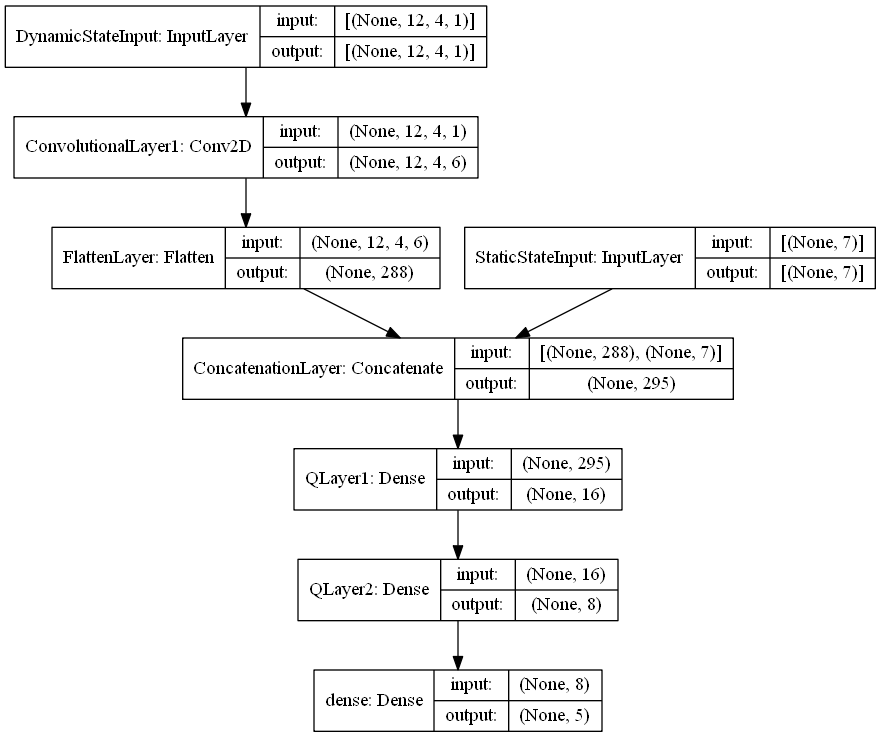
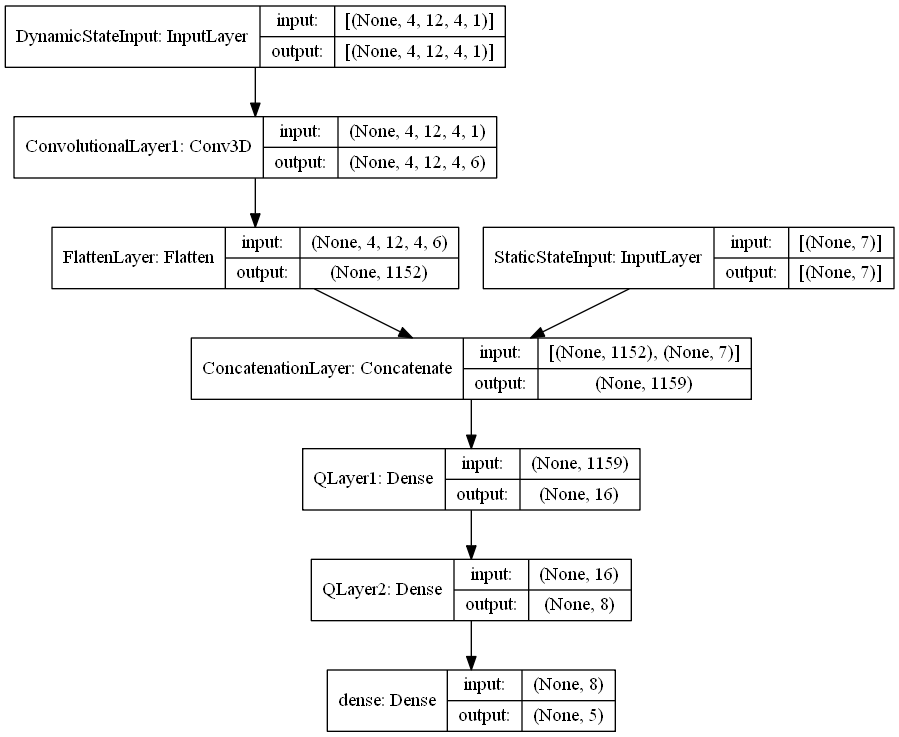
Added frame stacking for CNN and LSTM in policies.py

diff --git a/python/implementation/Policies.py b/python/implementation/Policies.py
@@ -3,6 +3,7 @@ import tensorflow as tf
 import numpy as np
 import random
 from matplotlib import pyplot as plt
+from collections import deque
 
 
 def add_state_noise(state, is_normal=False, is_uniform=False, magnitude=0.0, mu=0.0, sigma=0.0):
@@ -340,6 +341,14 @@ class DiscreteSingleActionPolicy(CustomPolicy):
         self.agent = agent  # agent = f(NN_model)
         self.STEP_TIME = self.agent.training_param["policy_rate"]
         self.rewards = RewardFunction()
+        cnn_config = self.agent.Q_actual_net.model_param['cnn_param']['config']
+        self.stack_cnn_frames = (self.agent.training_param["use_CNN"] and cnn_config == 3)
+        self.stack_LSTM_frames = self.agent.training_param["use_LSTM"]
+        if self.stack_cnn_frames or self.stack_LSTM_frames:
+            self.stack_frames = True
+            self.frame_stack_type = self.agent.training_param["frame_stack_type"]  # 0=stack agent frames , 1=stack simulator frames
+            self.frame_stack_buffer = deque(maxlen=4)
+
 
     def init_vehicle(self, veh):
         # Book-keeping of last states and actions
@@ -384,6 +393,28 @@ class DiscreteSingleActionPolicy(CustomPolicy):
                                              magnitude=self.agent.training_param["noise_param"]["magnitude"],
                                              mu=self.agent.training_param["noise_param"]["mu"],
                                              sigma=self.agent.training_param["noise_param"]["sigma"])
+
+            if self.stack_frames:
+                if self.stack_LSTM_frames:
+                    current_buffer_size = len(self.frame_stack_buffer)
+                    if current_buffer_size < 3:
+                        for item in range(3-current_buffer_size):
+                            self.frame_stack_buffer.append(veh.s1_mod)
+                    self.frame_stack_buffer.append(veh.s1_mod)
+                    stacked_state = tf.convert_to_tensor(list(self.frame_stack_buffer))
+                    # Transpose into shape suitable for LSTM
+                    veh.s1_mod = tf.transpose(stacked_state, perm=[1,0,2])
+                if self.stack_cnn_frames:
+                    current_buffer_size = len(self.frame_stack_buffer)
+                    if current_buffer_size < 3:
+                        for item in range(3-current_buffer_size):
+                            self.frame_stack_buffer.append(veh.s1_mod[0])
+                    self.frame_stack_buffer.append(veh.s1_mod[0])
+                    dynamic_stacked_state = tf.convert_to_tensor(list(self.frame_stack_buffer))
+                    # Transpose into shape suitable for the CNN
+                    dynamic_stacked_state = tf.expand_dims(tf.transpose(dynamic_stacked_state, perm=[0,2,3,1]),axis=0)
+                    veh.s1_mod = [dynamic_stacked_state,
+                                  veh.s1_mod[1]]
 
             Q = self.get_action(veh.s1_mod)
             veh.a1_mod = Q

diff --git a/python/implementation/Main.py b/python/implementation/Main.py
@@ -403,7 +403,7 @@ if __name__=="__main__":
         "seed": SEED,
         # TODO add parameters for the tuning of the deepset
         "cnn_param": {
-            "config": 2,            # 0=1D conv. on vehicle dim.,
+            "config": 3,            # 0=1D conv. on vehicle dim.,
                                     # 1=1D conv. on measurements dim.,
                                     # 2=2D conv. on vehicle and measurements dimensions,
                                     # 3=3D conv. on vehicle and measurement dimensions through time
@@ -419,7 +419,7 @@ if __name__=="__main__":
             # Config 3:
             "n_filters_3": 6,  # Dimensionality of output space
             "n_timesteps": N_STACKED_TIMESTEPS,
-            "kernel_size_3": (4,2,N_STACKED_TIMESTEPS)  # Convolution width
+            "kernel_size_3": (N_STACKED_TIMESTEPS,4,2)  # Convolution width
         }
         # TODO add initialiser
         # Add batch normalisation
@@ -430,8 +430,8 @@ if __name__=="__main__":
 
     # Training parameters:
     POLICY_ACTION_RATE = 8     # Number of simulator steps before new control action is taken
-    MAX_TIMESTEPS = 2.5e3         # range: 5e3 - 10e3
-    MAX_EPISODES = 5000 #1.2e3
+    MAX_TIMESTEPS = 1e4         # range: 5e3 - 10e3
+    MAX_EPISODES = 2000
     FINAL_RETURN = 0.91
     SHOW_TRAIN_PLOTS = False
     SAVE_TRAINING = True
@@ -455,7 +455,7 @@ if __name__=="__main__":
     # Reward weights = (rew_vel, rew_lat_lane_position, rew_fol_dist, staying_right, collision penalty)
     REWARD_WEIGHTS = np.array([1.0, 0.15, 0.8, 0.4, -5])
     STANDARDISE_RETURNS = True  # TODO additional variable for SPG
-    USE_PER = True
+    USE_PER = False
     ALPHA = 0.75                # Priority scale: a=0:random, a=1:completely based on priority
     BETA = 0.2                  # Prioritisation factor
     BETA_INCREMENT = 0.00004 * MODEL_UPDATE_RATE    # Rate of Beta annealing to 1
@@ -463,8 +463,9 @@ if __name__=="__main__":
     USE_DUELLING = False
     USE_DEEPSET = False
     USE_CNN = False
-    USE_LSTM = False
-    ADD_NOISE = True
+    USE_LSTM = True
+    FRAME_STACK_TYPE = 0  # 0-Stack last agent action frames, 1=stack simulator frames
+    ADD_NOISE = False
 
 
     # TODO comparitive plotting of standard DQN, DDQN, PER, and Duelling
@@ -503,6 +504,7 @@ if __name__=="__main__":
         "use_deepset": USE_DEEPSET,
         "use_CNN": USE_CNN,
         "use_LSTM": USE_LSTM,
+        "frame_stack_type": FRAME_STACK_TYPE,
         "noise_param": {"use_noise":ADD_NOISE,"magnitude":0.1, "normal": True, "mu":0.0, "sigma":0.1, "uniform": True}
     }
     logging.critical("Training param:")

diff --git a/python/implementation/Models.py b/python/implementation/Models.py
@@ -16,10 +16,11 @@ class LSTM_DRQN(keras.Model):
         np.random.seed(model_param["seed"])
         act_func = model_param["activation_function"]
         n_units = model_param["n_units"]
-        n_inputs = model_param["n_inputs"]
+        n_inputs = model_param["n_inputs"]  # Number of items in state matrix
         n_actions = model_param["n_actions"]
+        n_timesteps = 4  # Number of stacked measurements considered
 
-        input_layer = layers.Input(shape=(n_inputs,), name="inputState")
+        input_layer = layers.Input(shape=(n_timesteps, n_inputs,), name="inputState")
         LSTM_layer = layers.LSTM(units=n_units[0], name="LSTM")(input_layer)
         dense_layer1 = layers.Dense(units=n_units[1], activation=act_func, name="dense1")(LSTM_layer)
         dense_layer2 = layers.Dense(units=n_units[2], activation=act_func, name="dense3")(dense_layer1)
@@ -112,17 +113,15 @@ class CNN(keras.Model):
         elif self.cnn_config == 3:       # 3=3D conv. on vehicle and measurement dimensions through time
             n_filters = model_param["cnn_param"]["n_filters_3"]  # Dimensionality of output space
             kernel_size = model_param["cnn_param"]["kernel_size_3"]  # Convolution width
-            n_timesteps = 2  # Number of stacked measurements considered
-            input_matrix = tf.TensorShape([n_vehicles, n_inputs_dynamic, n_timesteps, 1])
-            # input shape = (batch_size, 12 [n_vehicles], 4 [rel pos and vel], 2 [t_0, t_1, ..])
+            n_timesteps = 4  # Number of stacked measurements considered
+            input_matrix = tf.TensorShape([n_timesteps,n_vehicles, n_inputs_dynamic, 1])
+            # input shape = (batch_size, 12 [n_vehicles], 4 [rel pos and vel], 4 [t_0, t_1, ..])
             self.dynamic_input_layer = layers.Input(shape=input_matrix, name="DynamicStateInput")
             self.conv_layer_1 = layers.Conv3D(filters=n_filters,
                                               kernel_size=kernel_size,
                                               activation=act_func,
                                               padding='same',
                                               name="ConvolutionalLayer1")(self.dynamic_input_layer)
-
-
 
         self.flatten_layer = layers.Flatten(name="FlattenLayer")(self.conv_layer_1)
 
